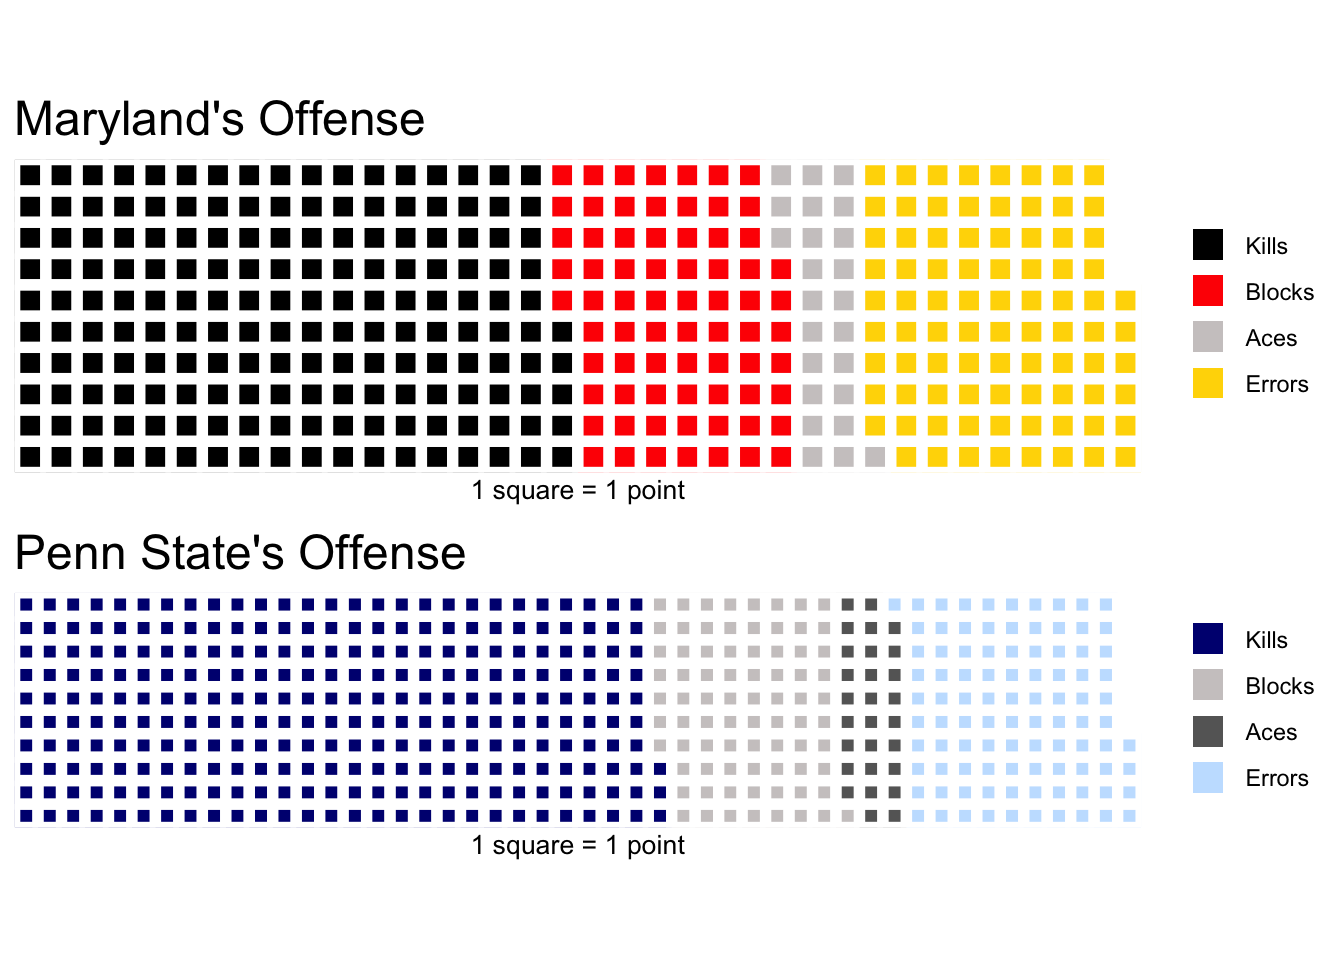
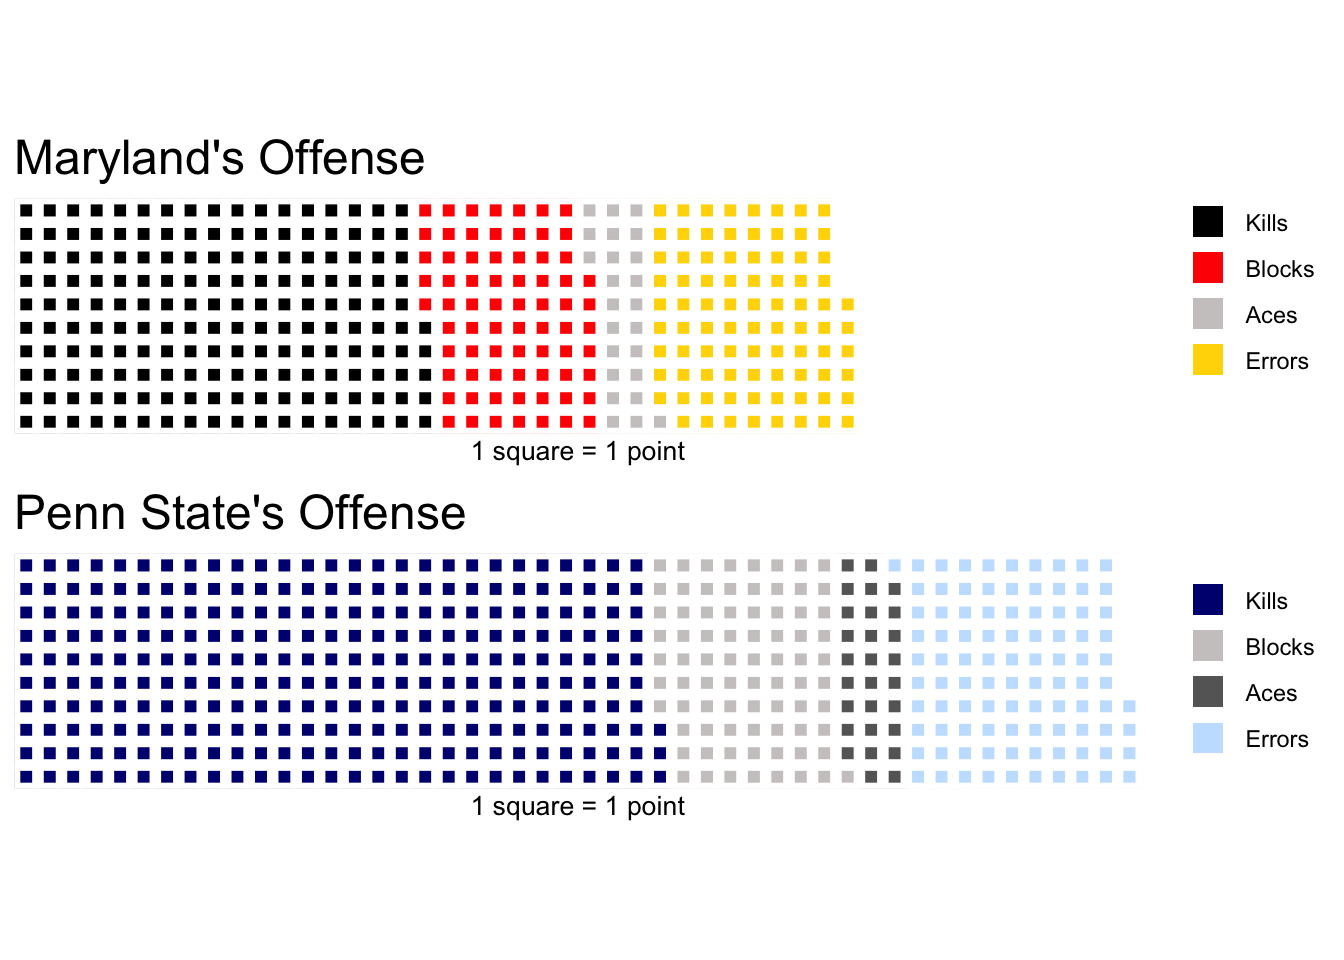
waffles

Changed region(s): [[0.0, 0.0938, 0.8438, 0.9062], [0.875, 0.5938, 0.9688, 0.8438], [0.875, 0.2188, 1.0, 0.4375]]

diff --git a/docs/posts/volleyball-waffle/index.html b/docs/posts/volleyball-waffle/index.html
@@ -283,7 +283,8 @@ date  (1): date
 <div class="cell">
 <details class="code-fold">
 <summary>Code</summary>
-<div class="sourceCode cell-code" id="cb10"><pre class="sourceCode r code-with-copy"><code class="sourceCode r"><span id="cb10-1"><a href="#cb10-1" aria-hidden="true" tabindex="-1"></a>ps <span class="ot">&lt;-</span> <span class="fu">c</span>(<span class="st">"Kills"</span><span class="ot">=</span><span class="dv">821</span>, <span class="st">"Blocks"</span><span class="ot">=</span><span class="dv">234</span>, <span class="st">"Aces"</span><span class="ot">=</span><span class="dv">84</span>, <span class="st">"Errors"</span><span class="ot">=</span><span class="dv">286</span>)</span></code><button title="Copy to Clipboard" class="code-copy-button"><i class="bi"></i></button></pre></div>
+<div class="sourceCode cell-code" id="cb10"><pre class="sourceCode r code-with-copy"><code class="sourceCode r"><span id="cb10-1"><a href="#cb10-1" aria-hidden="true" tabindex="-1"></a>ps <span class="ot">&lt;-</span> <span class="fu">c</span>(<span class="st">"Kills"</span><span class="ot">=</span><span class="dv">821</span>, <span class="st">"Blocks"</span><span class="ot">=</span><span class="dv">234</span>, <span class="st">"Aces"</span><span class="ot">=</span><span class="dv">84</span>, <span class="st">"Errors"</span><span class="ot">=</span><span class="dv">286</span>)</span>
+<span id="cb10-2"><a href="#cb10-2" aria-hidden="true" tabindex="-1"></a>md <span class="ot">&lt;-</span> <span class="fu">c</span>(<span class="st">"Kills"</span><span class="ot">=</span><span class="dv">525</span>, <span class="st">"Blocks"</span><span class="ot">=</span><span class="dv">216</span>, <span class="st">"Aces"</span><span class="ot">=</span><span class="dv">72</span>, <span class="st">"Errors"</span><span class="ot">=</span><span class="dv">257</span>, <span class="dv">355</span>)</span></code><button title="Copy to Clipboard" class="code-copy-button"><i class="bi"></i></button></pre></div>
 </details>
 </div>
 <div class="cell">
